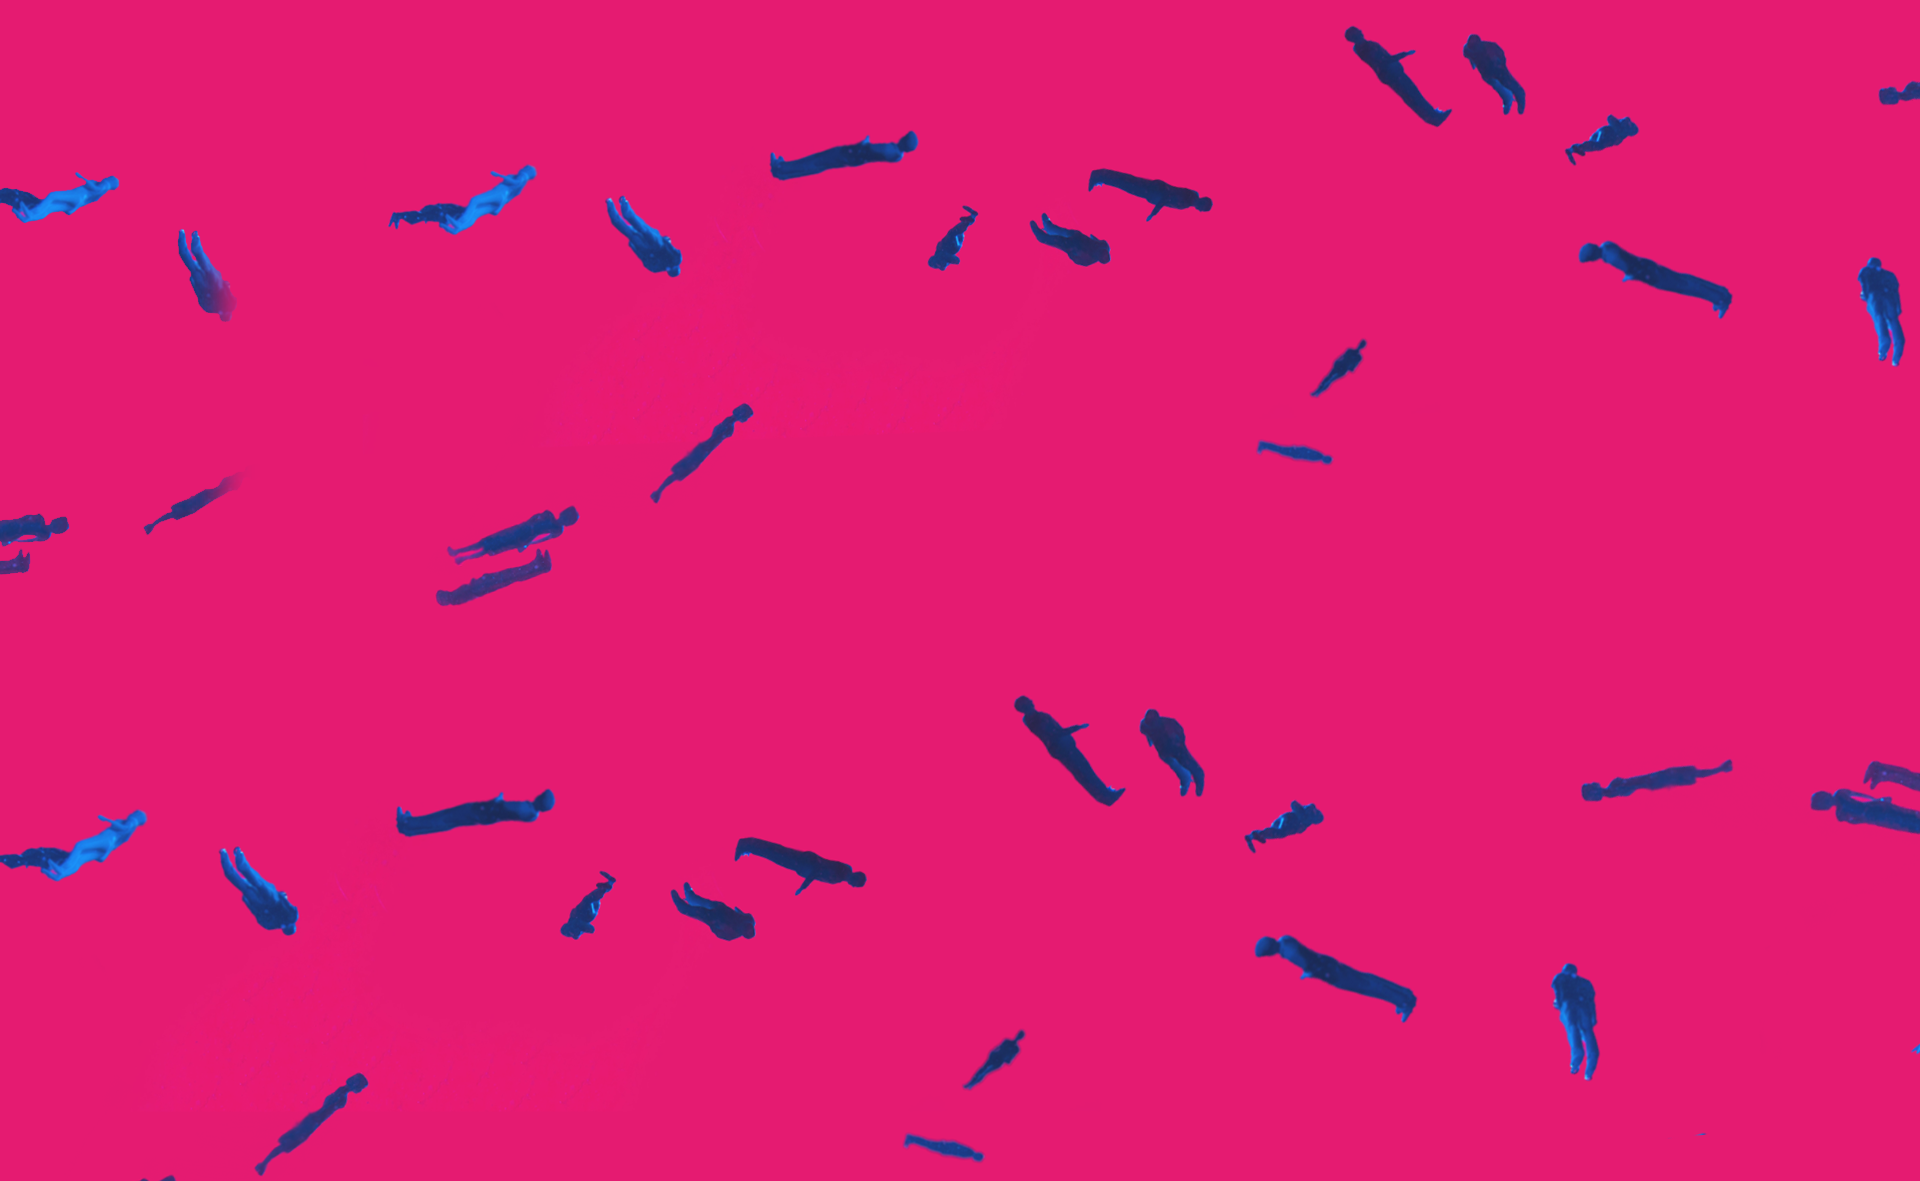
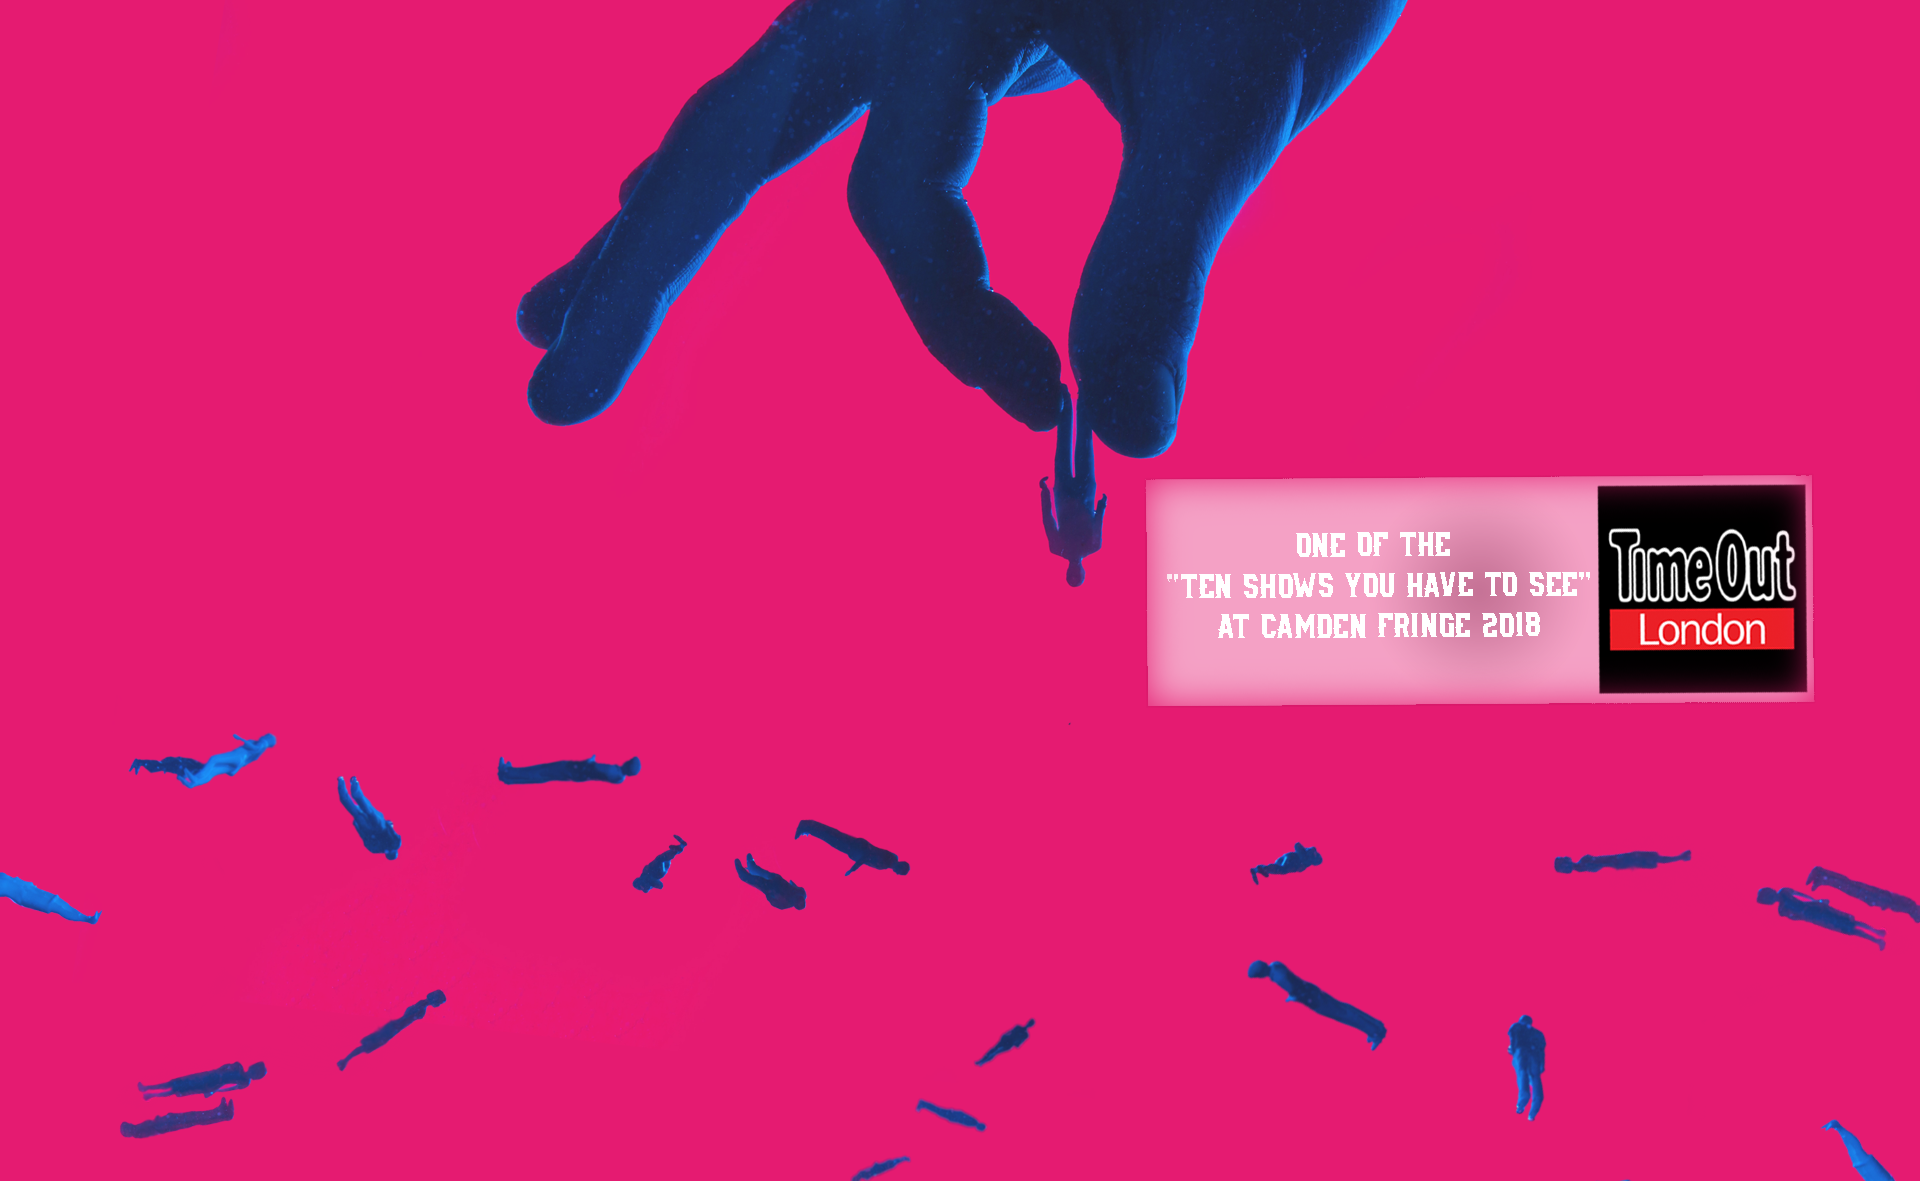
Added TimeOut

diff --git a/index.html b/index.html
@@ -96,7 +96,7 @@ $(document).ready(function(){
 <!--cover section slider -->
 <section id="home" class="home-cover">
     <div class="cover_slider owl-carousel owl-theme">
-        <div class="cover_item" style="background: url('assets/img/bg/slider.png');">
+        <div class="cover_item" style="background: url('assets/img/bg/slider2.png');">
             <div class="slider_content">
                 <div class="slider-content-inner">
                     <div class="container">
